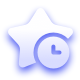
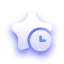
feat: 调整图片样式

diff --git a/src/packages/footer-tools/src/main.vue b/src/packages/footer-tools/src/main.vue
@@ -392,7 +392,7 @@
           height: 32px;
           -webkit-transform-origin: left center;
           transform-origin: left center;
-          margin: 0 0;
+          margin: -1px 0 0 0;
         }
       }
     }
@@ -431,7 +431,7 @@
       height: 32px;
       -webkit-transform-origin: left center;
       transform-origin: left center;
-      margin: 0 0;
+      margin: -1px 0 0 0;
     }
   }
 </style>

diff --git a/src/packages/sign-module/sign-watch/src/main.vue b/src/packages/sign-module/sign-watch/src/main.vue
@@ -218,7 +218,7 @@
         height: 32px;
         -webkit-transform-origin: left center;
         transform-origin: left center;
-        margin: 0 0;
+        margin: -1px 0 0 0;
       }
       .sign-circle {
         position: absolute;

diff --git a/src/packages/footer-tools/src/component/notice/index.vue b/src/packages/footer-tools/src/component/notice/index.vue
@@ -160,7 +160,7 @@
           height: 32px;
           -webkit-transform-origin: left center;
           transform-origin: left center;
-          margin: 0 0;
+          margin: -1px 0 0 0;
         }
       }
       .icon-num {

diff --git a/src/packages/footer-tools/src/component/questionnaire-icon/index.vue b/src/packages/footer-tools/src/component/questionnaire-icon/index.vue
@@ -48,7 +48,7 @@
       height: 32px;
       -webkit-transform-origin: left center;
       transform-origin: left center;
-      margin: 0 0;
+      margin: -1px 0 0 0;
     }
     .vmp-dot {
       position: absolute;

diff --git a/src/packages/footer-tools/src/component/red-packet-icon/index.vue b/src/packages/footer-tools/src/component/red-packet-icon/index.vue
@@ -54,7 +54,7 @@
       height: 32px;
       -webkit-transform-origin: left center;
       transform-origin: left center;
-      margin: 0 0;
+      margin: -1px 0 0 0;
     }
     .vmp-dot {
       position: absolute;

diff --git a/src/packages/footer-tools/src/component/praise/index.vue b/src/packages/footer-tools/src/component/praise/index.vue
@@ -176,6 +176,7 @@
         width: 32px;
         height: 32px;
         transform-origin: left center;
+        margin: -1px 0 0 0;
         &.active {
           animation: praise 0.5s ease-in;
         }

diff --git a/src/packages/footer-tools/src/component/lottery-icon/index.vue b/src/packages/footer-tools/src/component/lottery-icon/index.vue
@@ -88,7 +88,7 @@
       height: 32px;
       -webkit-transform-origin: left center;
       transform-origin: left center;
-      margin: 0 0;
+      margin: -1px 0 0 0;
     }
 
     .vmp-dot {
